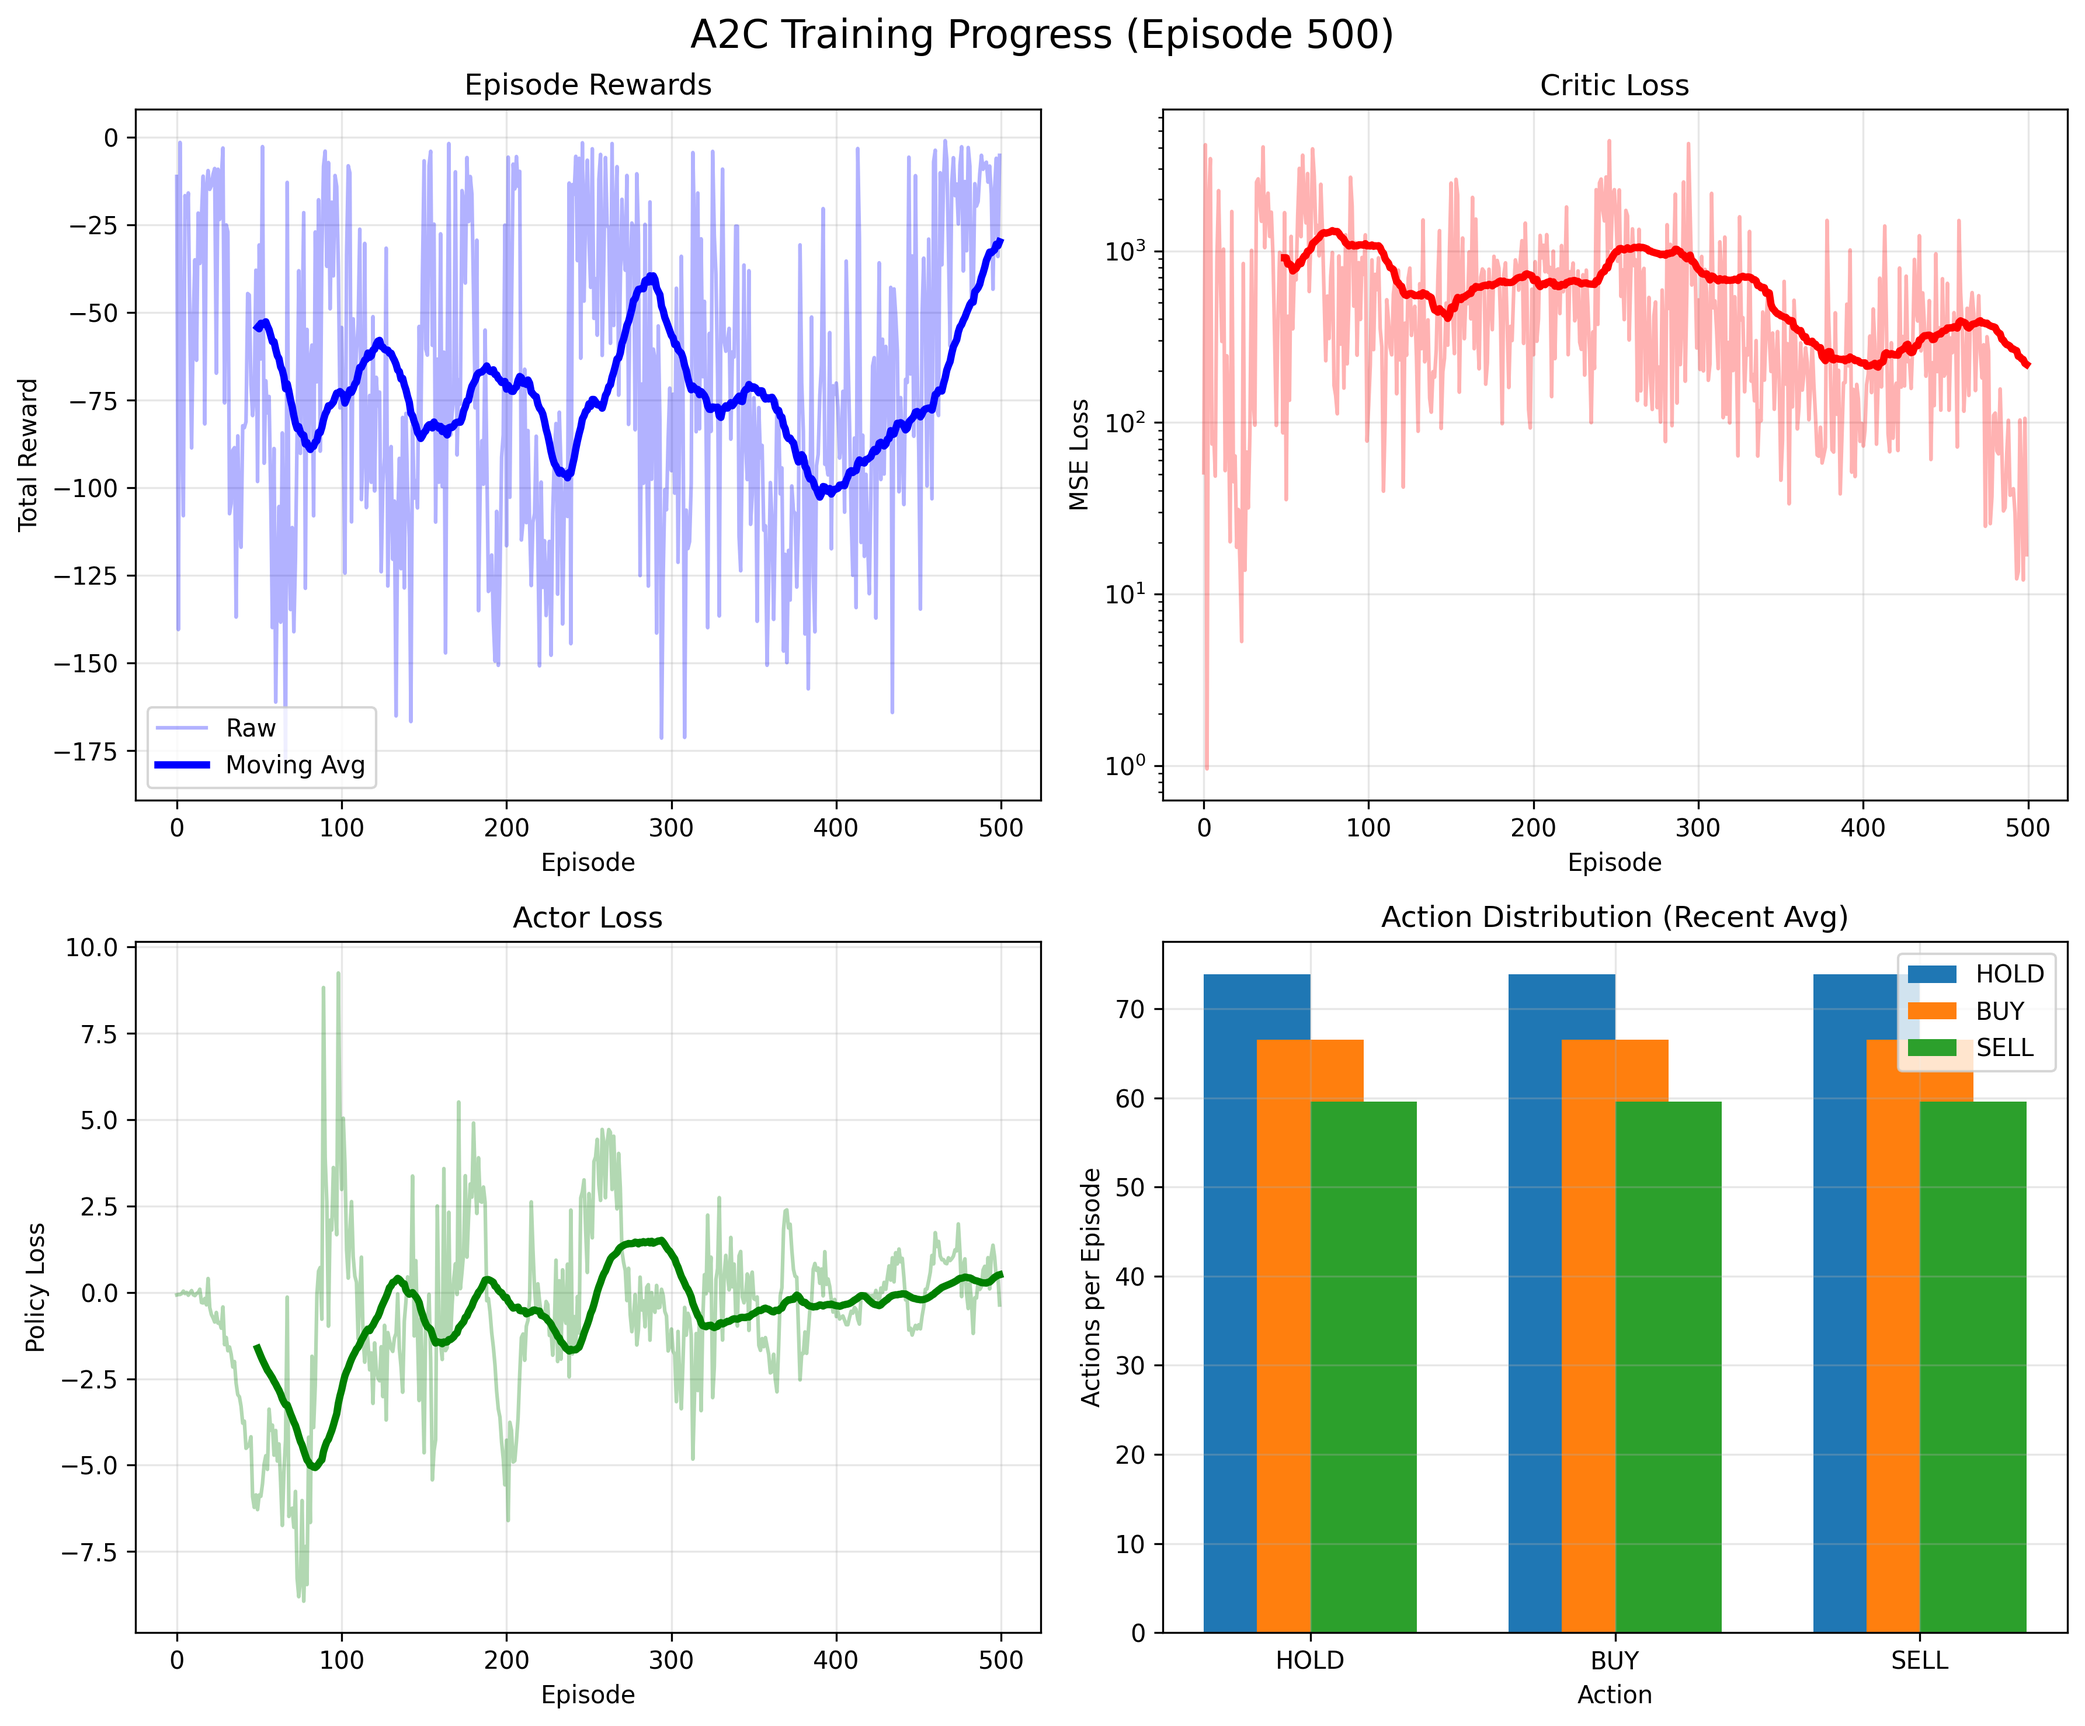
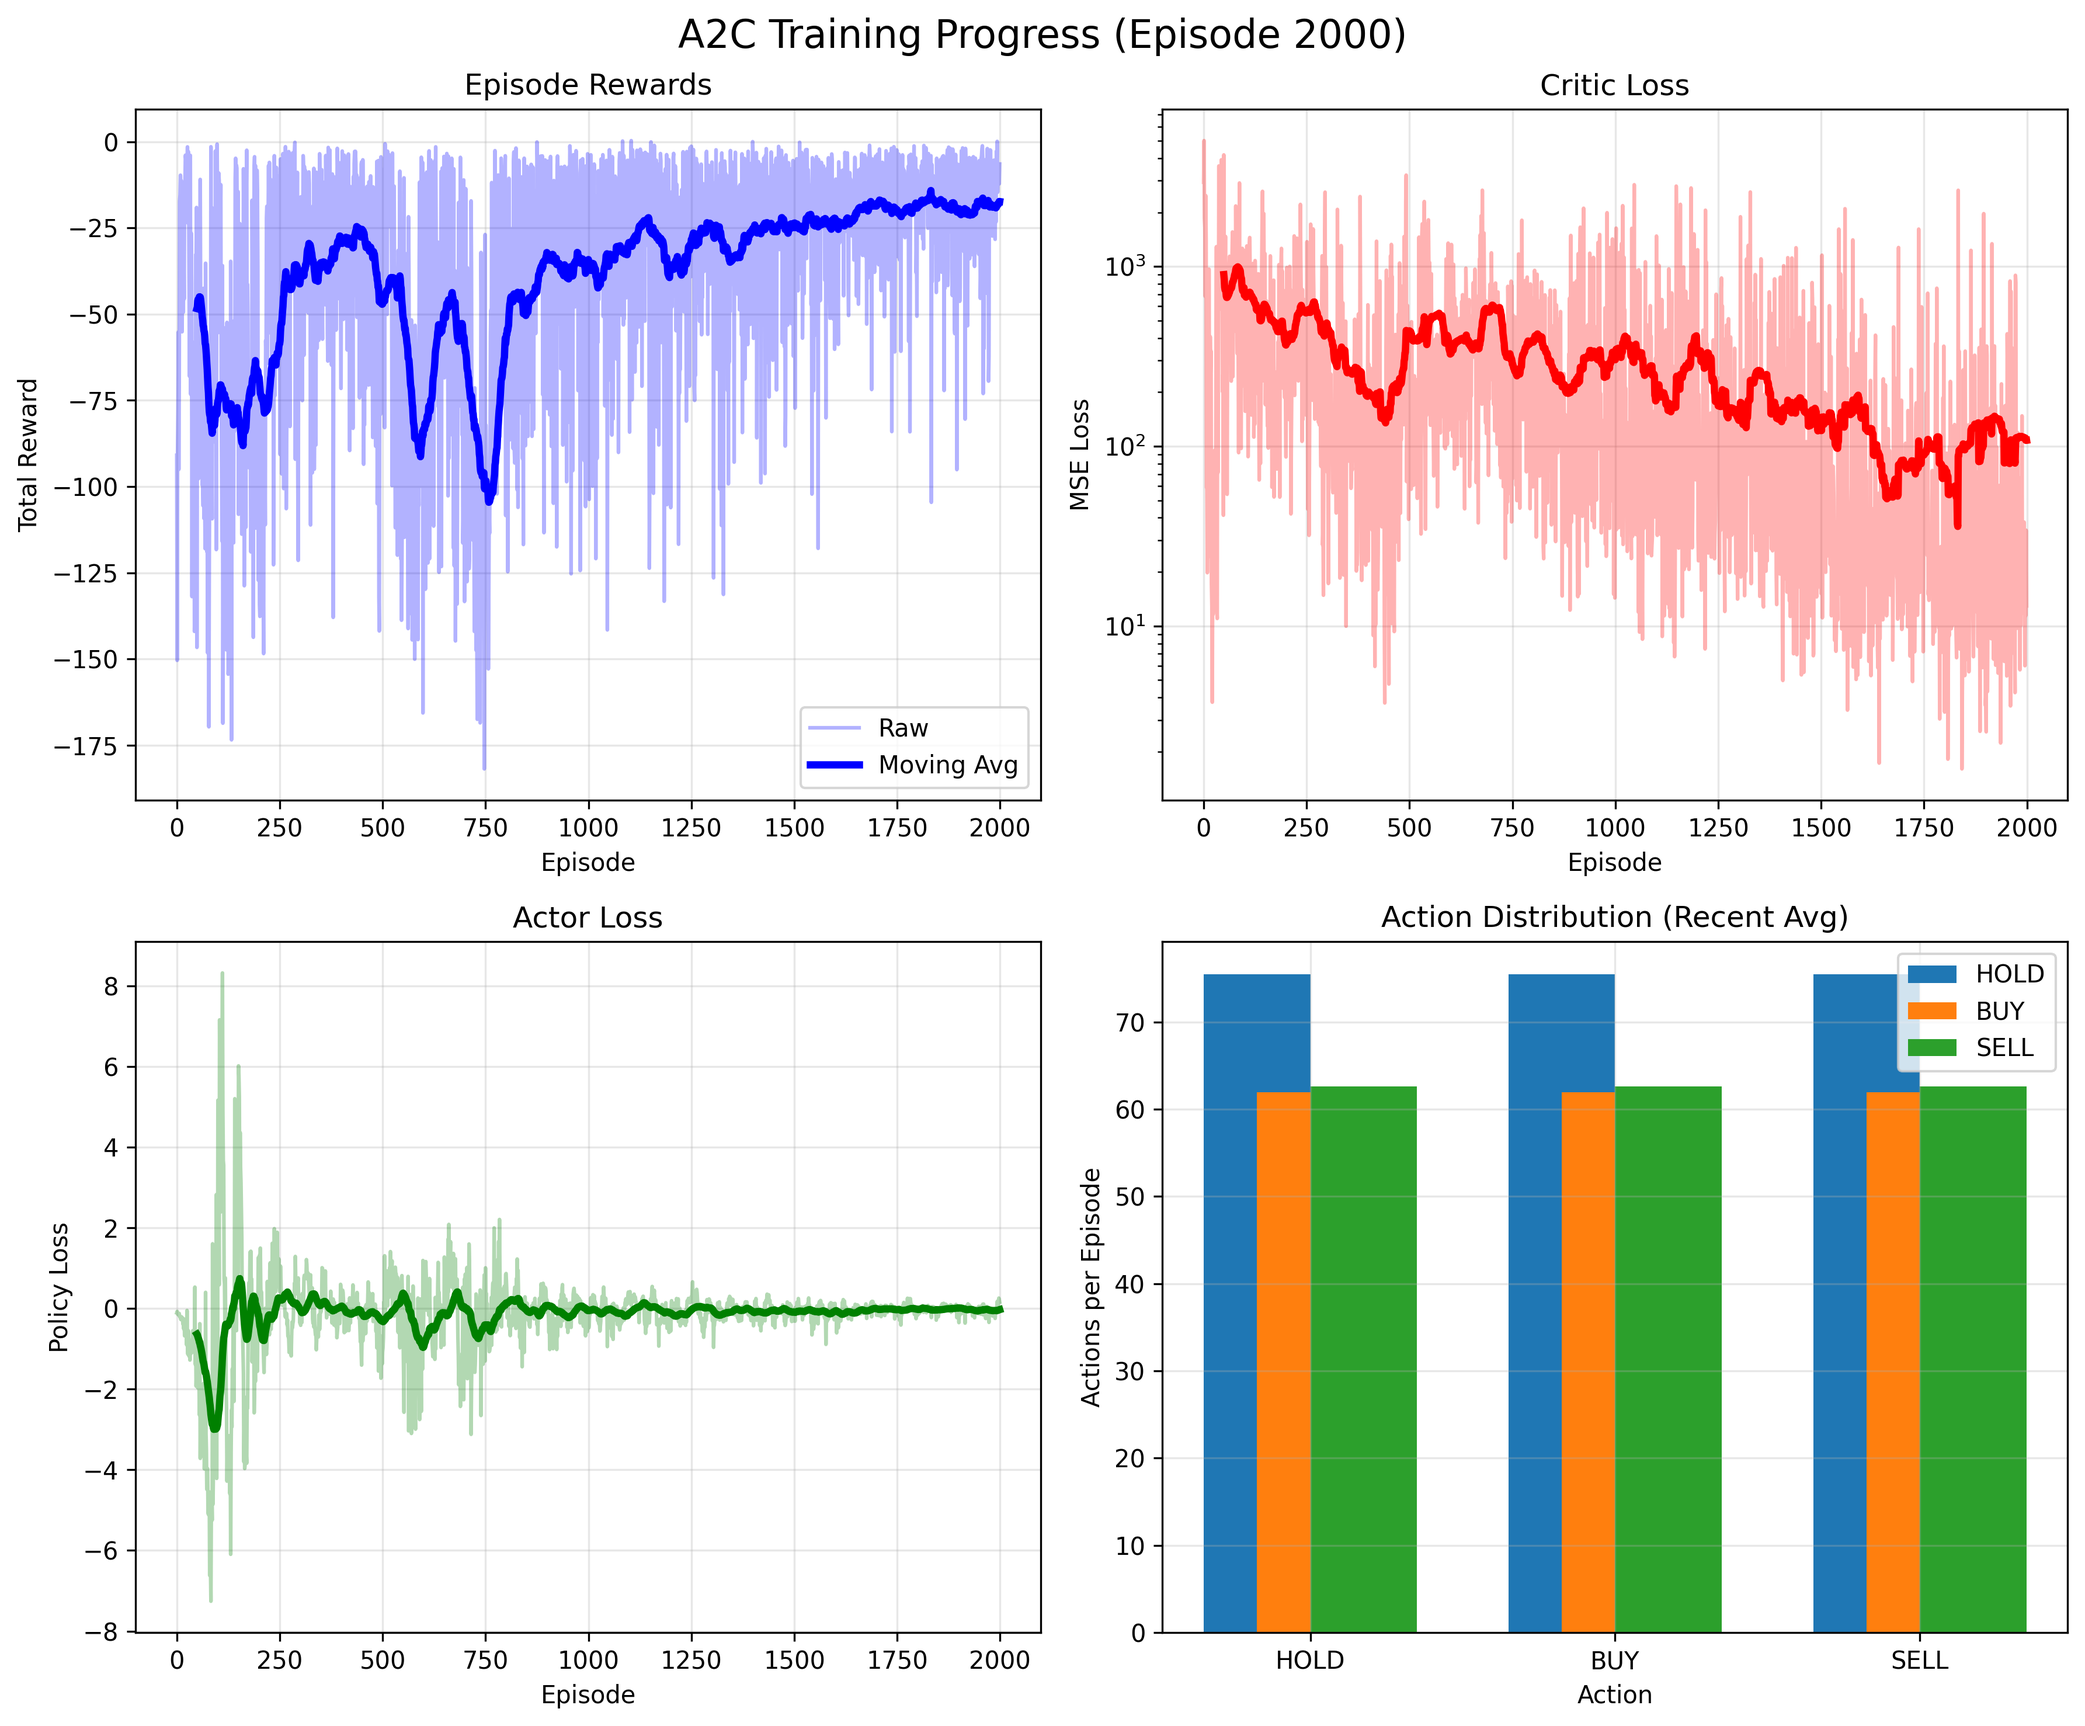
minor modif

diff --git a/agents/train_a2c.py b/agents/train_a2c.py
@@ -253,7 +253,7 @@ class ContinuousBinanceEnv(gym.Env):
         return self._get_obs(), float(reward), terminated, False, {}
 
 
-def train_critic(lr_actor=1e-3, lr_critic=1e-3, gamma=0.99, n_episodes=1000, MAX_GRAD_NORM=0.5):
+def train_critic(lr_actor=1e-3, lr_critic=1e-3, gamma=0.99, n_episodes=2000, MAX_GRAD_NORM=0.5):
     device = torch.device("cuda" if torch.cuda.is_available() else "cpu")
     print(f"[A2C Q-Critic] Training on {device}")
     episode_rewards_history = []
@@ -355,11 +355,11 @@ def train_critic(lr_actor=1e-3, lr_critic=1e-3, gamma=0.99, n_episodes=1000, MAX
             advantages = (q_sa_detach - v_s_detach).squeeze()
 
         entropies_t = torch.stack(entropies)
-        #entropy_coef = 0.1
+        #entropy_coef = 0.01
         entropy_coef = max(0.01, 0.1 * (1 - ep / n_episodes))
 
 
-        actor_loss = (-log_probs_t * advantages + -entropy_coef * entropies_t).mean()
+        actor_loss = (-log_probs_t * advantages -entropy_coef * entropies_t).mean()
         # actor_loss = -(log_probs_t * advantages).mean()
 
         actor_optim.zero_grad()
